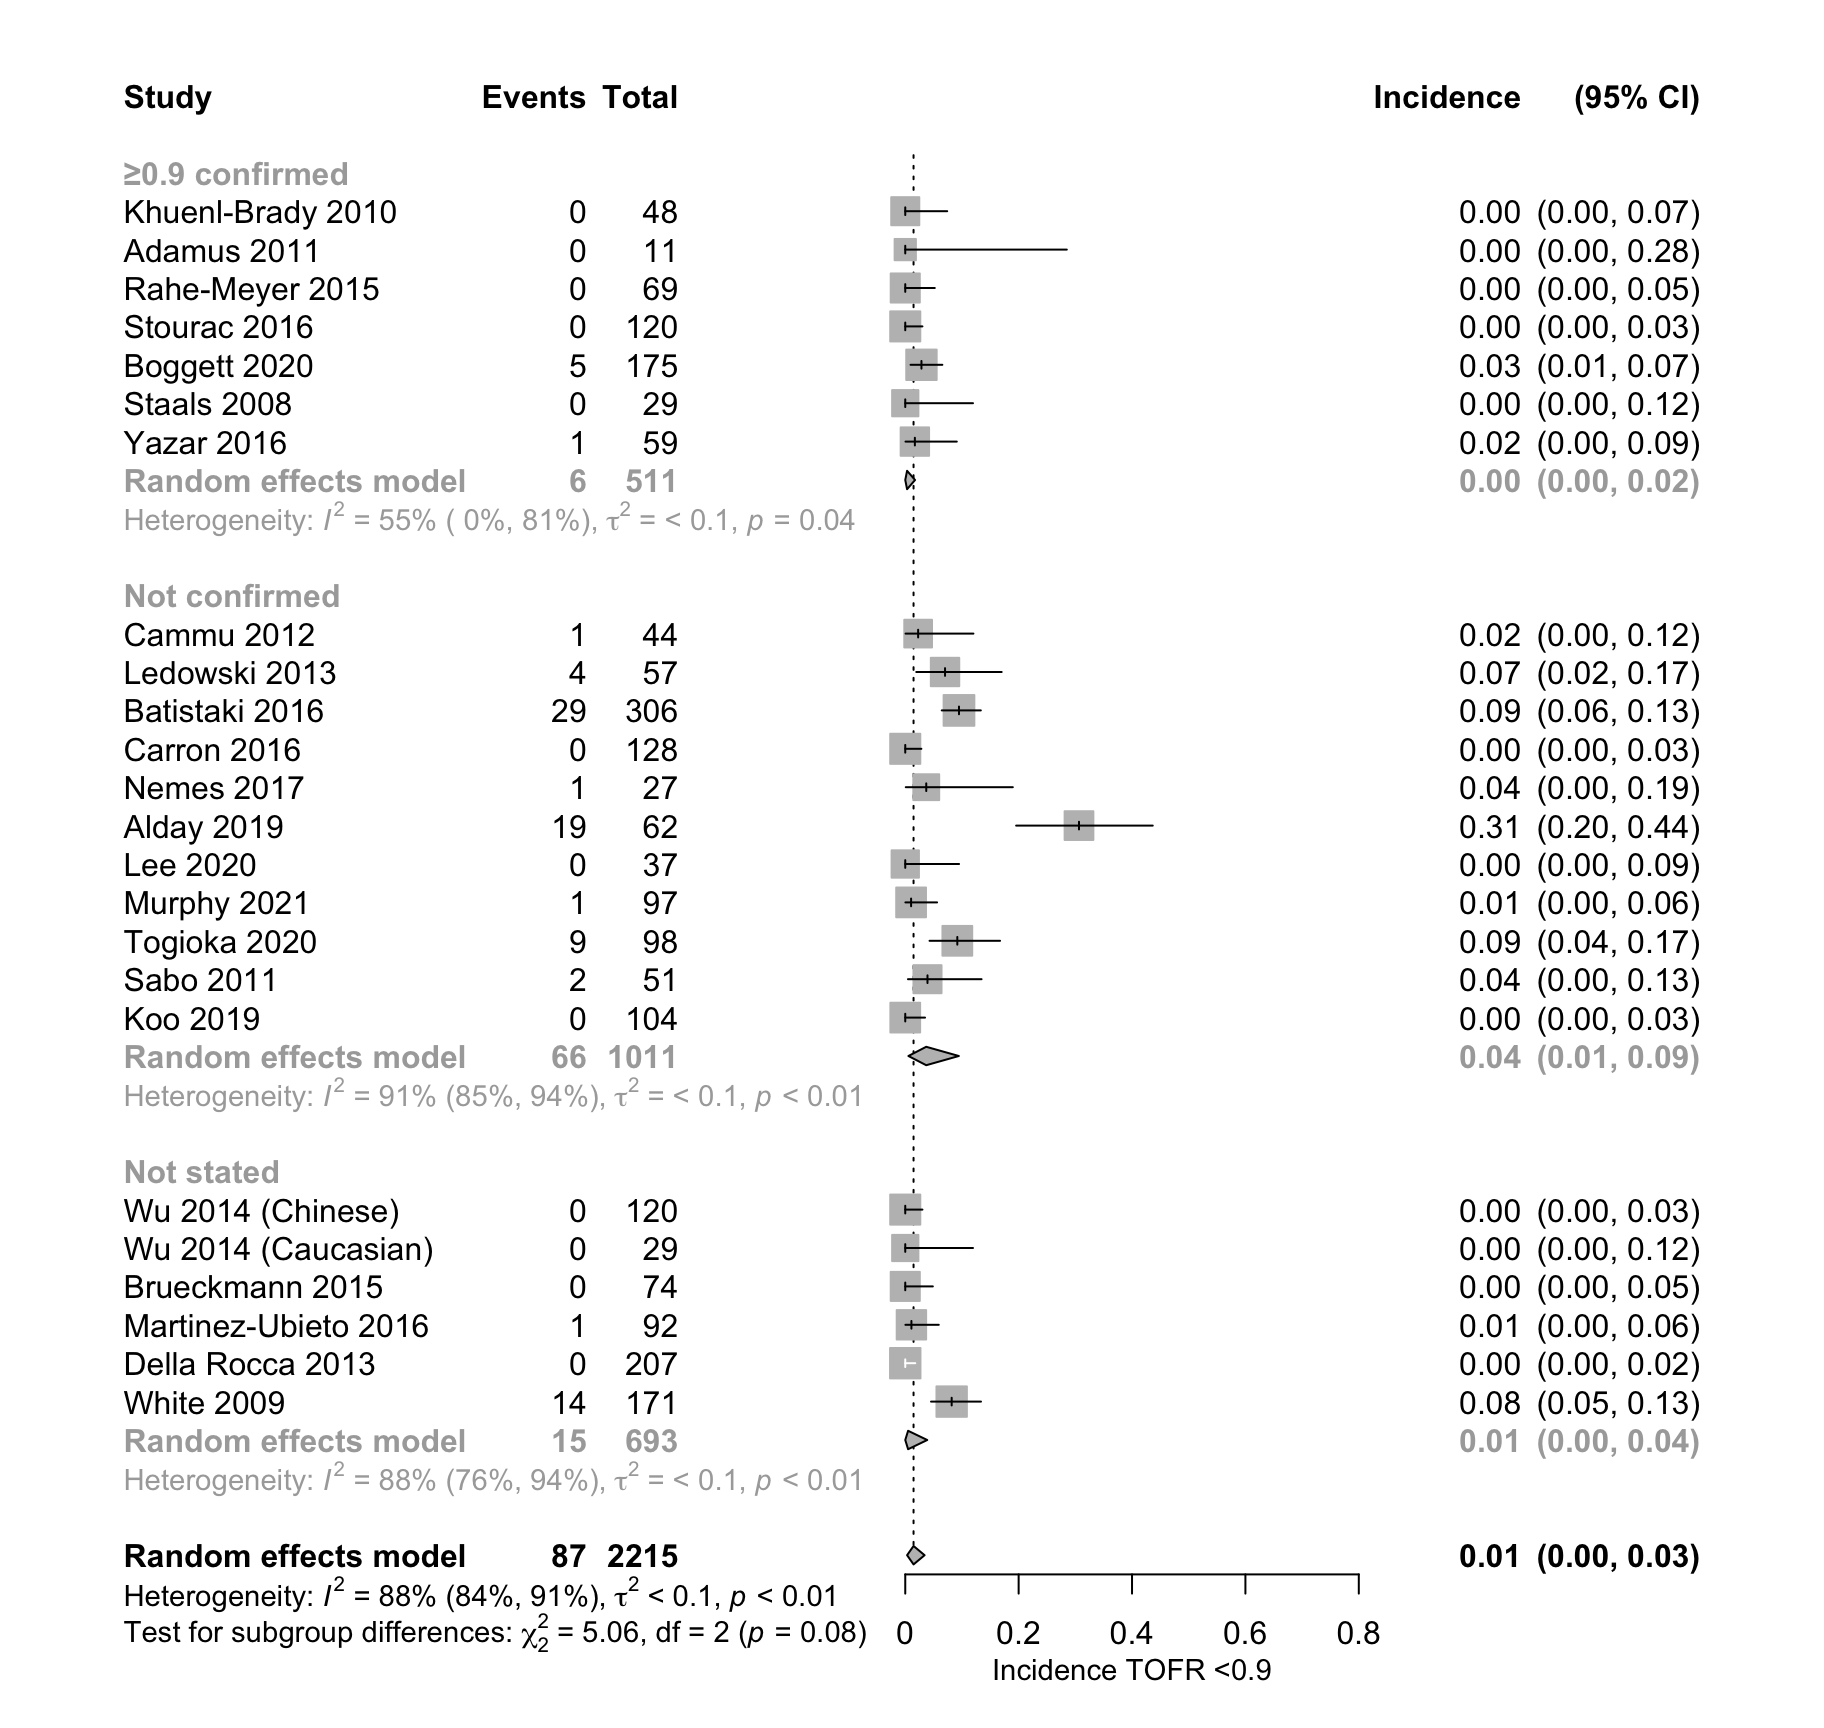
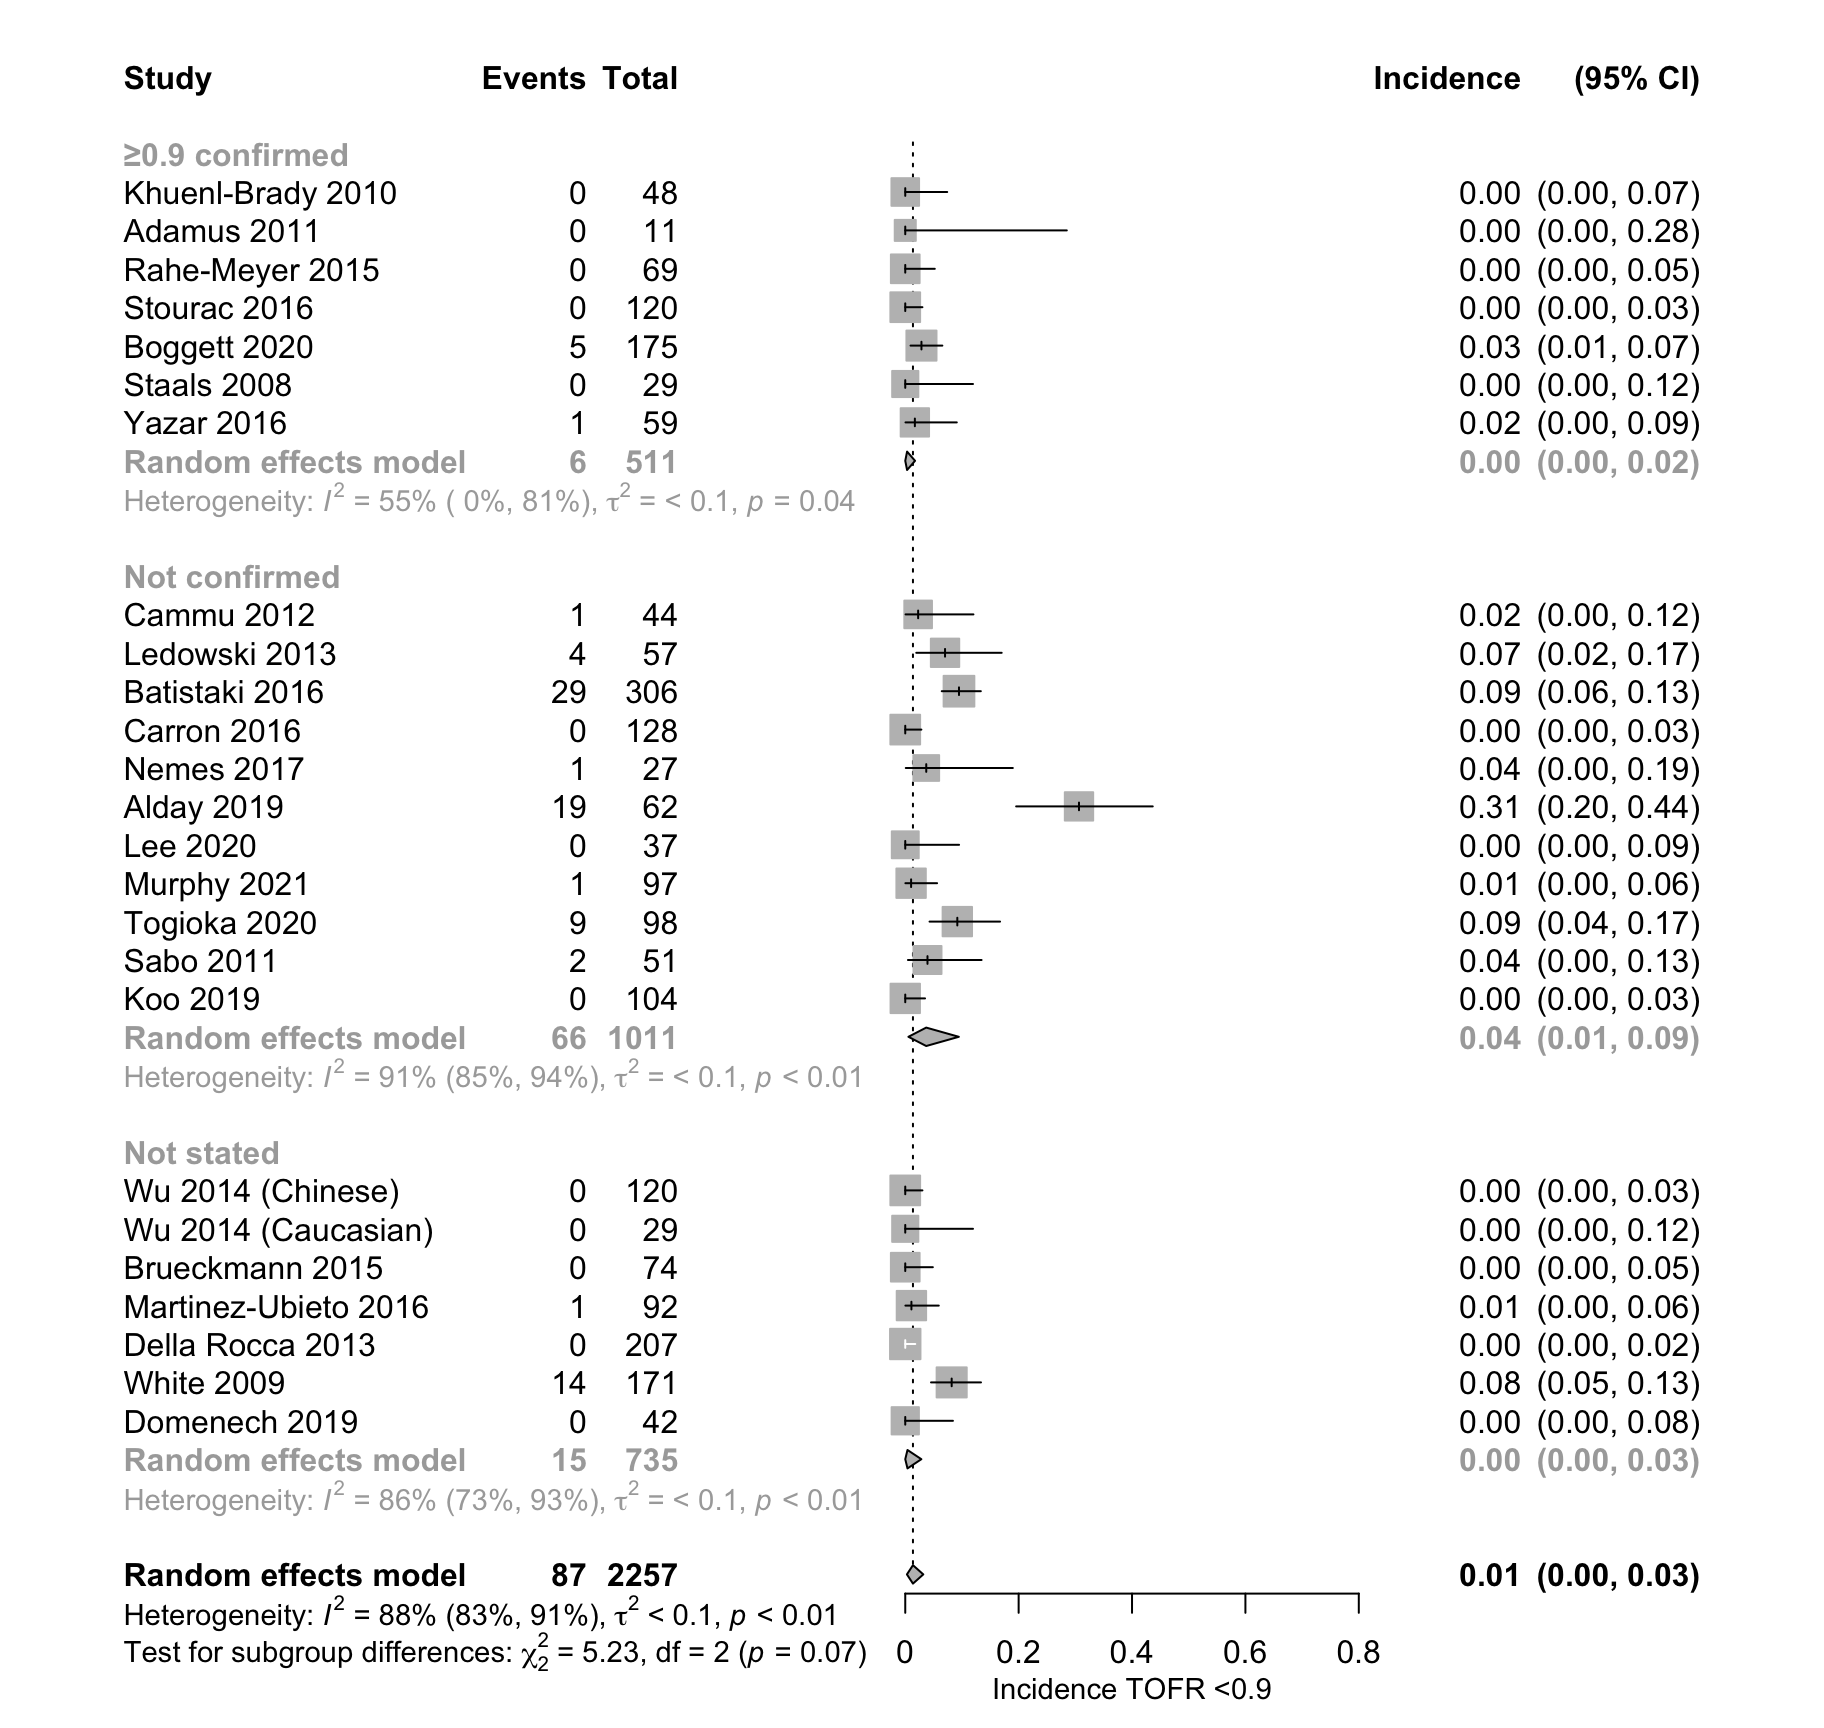
add domenech 2019

diff --git a/docs/tofr_confirm.html b/docs/tofr_confirm.html
@@ -436,7 +436,7 @@ div.tocify {
 
 
 <h1 class="title toc-ignore">TOFR Confirmation (draft/preliminary)</h1>
-<h4 class="date">29 March, 2022 (20:36)</h4>
+<h4 class="date">30 March, 2022 (07:59)</h4>
 
 </div>
 
@@ -465,7 +465,7 @@ aria-hidden="true"></span> </a>
 <div class="tab-content">
 <div id="summary" class="tab-pane fade in active">
 <p>
-<strong>Last updated:</strong> 2022-03-29
+<strong>Last updated:</strong> 2022-03-30
 </p>
 <p>
 <strong>Checks:</strong> <span
@@ -503,10 +503,10 @@ changes </a>
 <div id="strongRMarkdownfilestronguncommittedchanges"
 class="panel-collapse collapse">
 <div class="panel-body">
-<p>The R Markdown file has staged changes. To know which version of the
-R Markdown file created these results, you’ll want to first commit it to
-the Git repo. If you’re still working on the analysis, you can ignore
-this warning. When you’re finished, you can run
+<p>The R Markdown file has unstaged changes. To know which version of
+the R Markdown file created these results, you’ll want to first commit
+it to the Git repo. If you’re still working on the analysis, you can
+ignore this warning. When you’re finished, you can run
 <code>wflow_publish</code> to commit the R Markdown file and build the
 HTML.</p>
 </div>
@@ -599,15 +599,15 @@ project makes it easier to run your code on other machines.</p>
 <div class="panel panel-default">
 <div class="panel-heading">
 <p class="panel-title">
-<a data-toggle="collapse" data-parent="#workflowr-checks" href="#strongRepositoryversionstrongahrefhttpsgithubcommdgrantNMBtreeae8955de8719ec3aeb17a079b6b944b498b52c62targetblankae8955da">
+<a data-toggle="collapse" data-parent="#workflowr-checks" href="#strongRepositoryversionstrongahrefhttpsgithubcommdgrantNMBtreecd5364b602fd10a78546ad8998feaede6e7346f7targetblankcd5364ba">
 <span class="glyphicon glyphicon-ok text-success"
 aria-hidden="true"></span> <strong>Repository version:</strong>
-<a href="https://github.com/mdgrant/NMB/tree/ae8955de8719ec3aeb17a079b6b944b498b52c62" target="_blank">ae8955d</a>
+<a href="https://github.com/mdgrant/NMB/tree/cd5364b602fd10a78546ad8998feaede6e7346f7" target="_blank">cd5364b</a>
 </a>
 </p>
 </div>
 <div
[2 lines of base64/hex data omitted]
 class="panel-collapse collapse">
 <div class="panel-body">
 <p>
@@ -617,7 +617,7 @@ reproducibility.
 </p>
 <p>
 The results in this page were generated with repository version
-<a href="https://github.com/mdgrant/NMB/tree/ae8955de8719ec3aeb17a079b6b944b498b52c62" target="_blank">ae8955d</a>.
+<a href="https://github.com/mdgrant/NMB/tree/cd5364b602fd10a78546ad8998feaede6e7346f7" target="_blank">cd5364b</a>.
 See the <em>Past versions</em> tab to see a history of the changes made
 to the R Markdown and HTML files.
 </p>
@@ -666,9 +666,6 @@ Unstaged changes:
     Modified:   analysis/kq3.Rmd
     Modified:   analysis/tofr_confirm.Rmd
 
-Staged changes:
-    Modified:   analysis/tofr_confirm.Rmd
-
 </code></pre>
 <p>
 Note that any generated files, e.g. HTML, png, CSS, etc., are not
@@ -713,6 +710,40 @@ Message
 </tr>
 </thead>
 <tbody>
+<tr>
+<td>
+Rmd
+</td>
+<td>
+<a href="https://github.com/mdgrant/NMB/blob/cd5364b602fd10a78546ad8998feaede6e7346f7/analysis/tofr_confirm.Rmd" target="_blank">cd5364b</a>
+</td>
+<td>
+mdgrant
+</td>
+<td>
+2022-03-29
+</td>
+<td>
+fixed toc confirm
+</td>
+</tr>
+<tr>
+<td>
+html
+</td>
+<td>
+<a href="https://rawcdn.githack.com/mdgrant/NMB/cd5364b602fd10a78546ad8998feaede6e7346f7/docs/tofr_confirm.html" target="_blank">cd5364b</a>
+</td>
+<td>
+mdgrant
+</td>
+<td>
+2022-03-29
+</td>
+<td>
+fixed toc confirm
+</td>
+</tr>
 <tr>
 <td>
 Rmd
@@ -1254,7 +1285,6 @@ $(document).ready(function(){
     $('[data-toggle="popover"]').popover({html: true, placement: top});
 });
 </script>
-<!-- ## TOFR ≥0.9 Before Extubation -->
 <p><br/></p>
 <div id="sugammadex" class="section level2">
 <h2>Sugammadex</h2>
@@ -1853,7 +1883,7 @@ PACU
 style="display: inline-block; unicode-bidi: plaintext; background: linear-gradient(270deg, transparent  98.97% , #c39bd3 98.97% , #c39bd3 100.00% , transparent 100.00% ); width: 100%"> </span>
 </td>
 </tr>
-<tr grouplength="6">
+<tr grouplength="7">
 <td colspan="9" style="border-top: 1px solid;color: black !important;background-color: #EBEBEB !important;">
 <strong>Not stated</strong>
 </td>
@@ -2036,6 +2066,35 @@ PACU
 style="display: inline-block; unicode-bidi: plaintext; background: linear-gradient(270deg, transparent  98.91% , #7fb3d5 98.91% , #7fb3d5 100.00% , transparent 100.00% ); width: 100%"> </span>
 </td>
 </tr>
+<tr>
+<td style="text-align:left;width: 10em; ">
+Domenech 2019
+</td>
+<td style="text-align:left;width: 8em; ">
+Retro Coh
+</td>
+<td style="text-align:right;width: 4em; ">
+42
+</td>
+<td style="text-align:center;width: 4em; ">
+Var
+</td>
+<td style="text-align:center;width: 5em; ">
+</td>
+<td style="text-align:left;width: 7em; ">
+NS
+</td>
+<td style="text-align:left;width: 6em; ">
+PACU
+</td>
+<td style="text-align:left;width: 6em; ">
+0 (0.0)
+</td>
+<td style="text-align:left;width: 7em; ">
+<span
+style="display: inline-block; unicode-bidi: plaintext; background: linear-gradient(270deg, transparent  100.00% , #7fb3d5 100.00% , #7fb3d5 100.00% , transparent 100.00% ); width: 100%"> </span>
+</td>
+</tr>
 </tbody>
 <tfoot>
 <tr>
@@ -2116,9 +2175,9 @@ mdgrant
 <p>Mod: moderate; Min: minimal; Oth: other; NS: not stated.<br/>
 Confirmed vs. not confirmed — risk ratio 0.09 (95% CI: 0.00, 0.72).
 <br/> Removing Alday 2019 — Risk Ratio 0.14 (95% CI: 0.00, 1.03)<br/>
-Assuming all not stated were confirmed — risk ratio 0.15 (95% CI: 0.01,
-1.09). <br/> Assuming all not stated were not confirmed — risk ratio
-0.14 (95% CI: 0.00, 1.05).</p>
+Assuming all not stated were confirmed — risk ratio 0.10 (95% CI: 0.00,
+0.69). <br/> Assuming all not stated were not confirmed — risk ratio
+0.16 (95% CI: 0.00, 1.36).</p>
 <p><br/><br/></p>
 <p><a id="kq4Fig1"></a></p>
 </div>
@@ -2749,7 +2808,7 @@ PACU
 style="display: inline-block; unicode-bidi: plaintext; background: linear-gradient(270deg, transparent  39.00% , #c39bd3 39.00% , #c39bd3 100.00% , transparent 100.00% ); width: 100%"> </span>
 </td>
 </tr>
-<tr grouplength="8">
+<tr grouplength="9">
 <td colspan="9" style="border-top: 1px solid;color: black !important;background-color: #EBEBEB !important;">
 <strong>Not stated</strong>
 </td>
@@ -2990,6 +3049,35 @@ PACU
 style="display: inline-block; unicode-bidi: plaintext; background: linear-gradient(270deg, transparent  77.17% , #7fb3d5 77.17% , #7fb3d5 100.00% , transparent 100.00% ); width: 100%"> </span>
 </td>
 </tr>
+<tr>
+<td style="text-align:left;width: 10em; ">
+Domenech 2019
+</td>
+<td style="text-align:left;width: 8em; ">
+Retro Coh
+</td>
+<td style="text-align:right;width: 4em; ">
+9
+</td>
+<td style="text-align:center;width: 4em; ">
+Var
+</td>
+<td style="text-align:center;width: 5em; ">
+</td>
+<td style="text-align:left;width: 7em; ">
+NS
+</td>
+<td style="text-align:left;width: 6em; ">
+PACU
+</td>
+<td style="text-align:left;width: 6em; ">
+0 (0.0)
+</td>
+<td style="text-align:left;width: 7em; ">
+<span
+style="display: inline-block; unicode-bidi: plaintext; background: linear-gradient(270deg, transparent  100.00% , #7fb3d5 100.00% , #7fb3d5 100.00% , transparent 100.00% ); width: 100%"> </span>
+</td>
+</tr>
 </tbody>
 <tfoot>
 <tr>
@@ -3067,9 +3155,9 @@ mdgrant
 </div>
 <p>Mod: moderate; Min: minimal; Oth: other; NS: not stated.<br/>
 Confirmed vs. not confirmed — risk ratio 0.13 (95% CI: 0.05, 0.30).
-<br/> Assuming all not stated were confirmed — risk ratio 0.27 (95% CI:
-0.08, 0.65). <br/> Assuming all not stated were not confirmed — risk
-ratio 0.17 (95% CI: 0.07, 0.39). <br/></p>
+<br/> Assuming all not stated were confirmed — risk ratio 0.24 (95% CI:
+0.07, 0.60). <br/> Assuming all not stated were not confirmed — risk
+ratio 0.19 (95% CI: 0.07, 0.44). <br/></p>
 <p><br/><br/></p>
 <br>
 <p>
